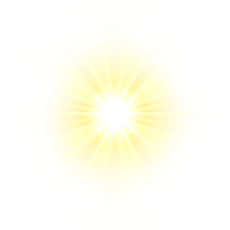
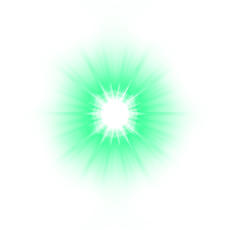
minor changes
fixed an issue with the flying enemy acquiring target.
changed collection glow color to green

Changed region(s): [[0.1826, 0.1826, 0.8217, 0.8217]]

diff --git a/Assets/Scripts/Combat System/RangedWeapon.cs b/Assets/Scripts/Combat System/RangedWeapon.cs
@@ -68,9 +68,15 @@ namespace TheFrozenBanana {
 			ToggleWeapon(false);
 		}
 
+		private void OnEnable() {
+			if (enemyWeapon) {
+				StartCoroutine(FindPlayer());
+			}
+		}
+
 		private IEnumerator FindPlayer() {
 			while (aimTool == null) {
-				yield return new WaitForSeconds(1f);
+				yield return new WaitForSeconds(0.1f);
 				try {
 					aimTool = GameObject.FindGameObjectWithTag("Player").GetComponent<Transform>();
 				} catch (NullReferenceException nre) {
